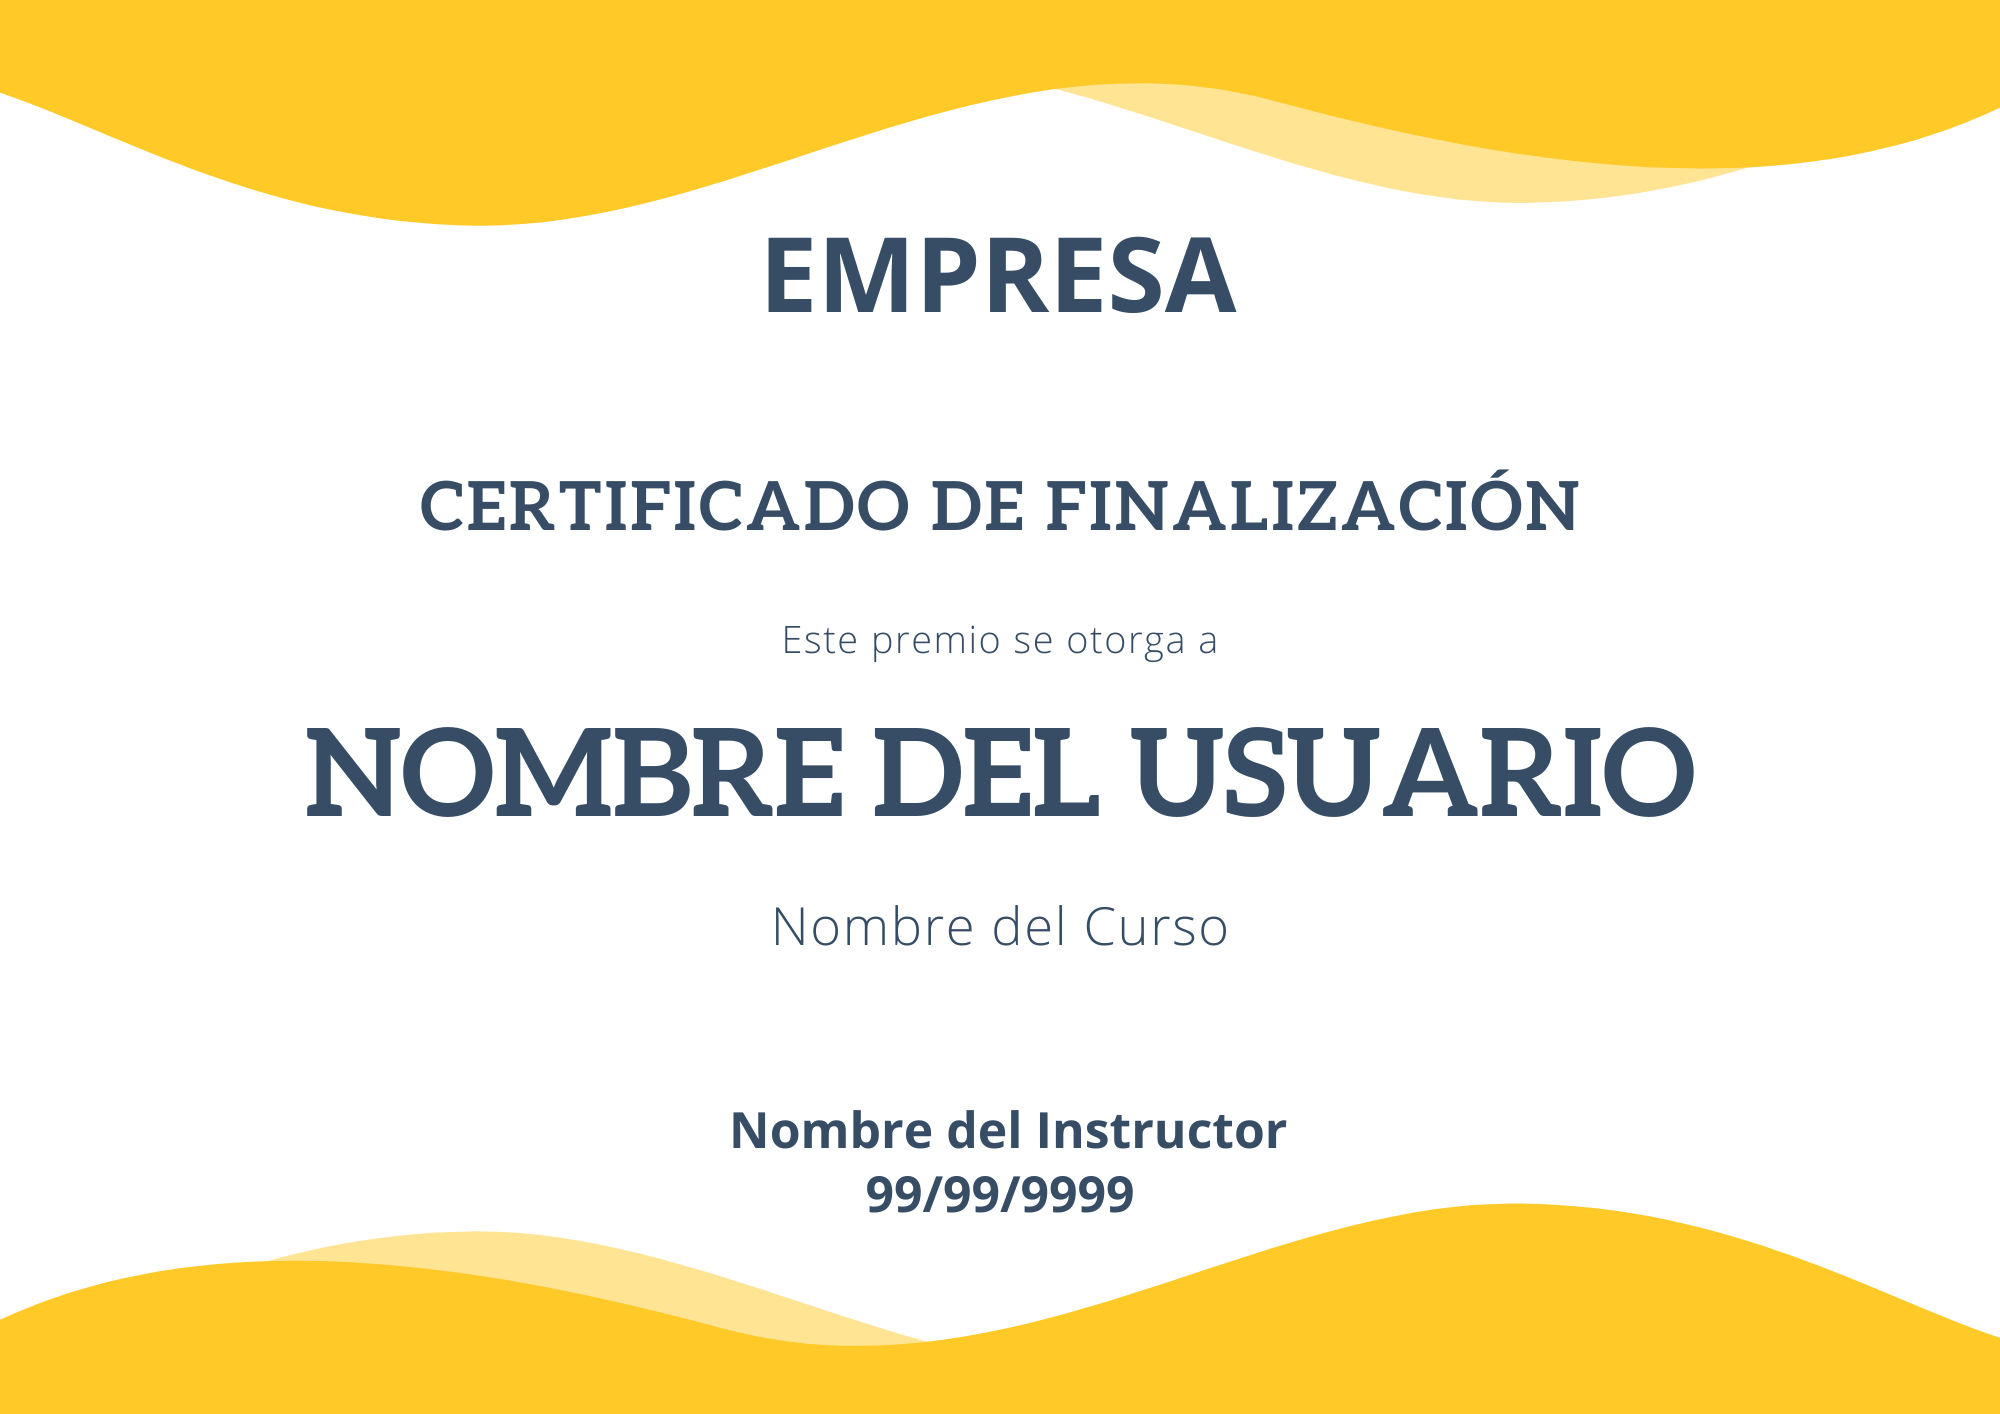
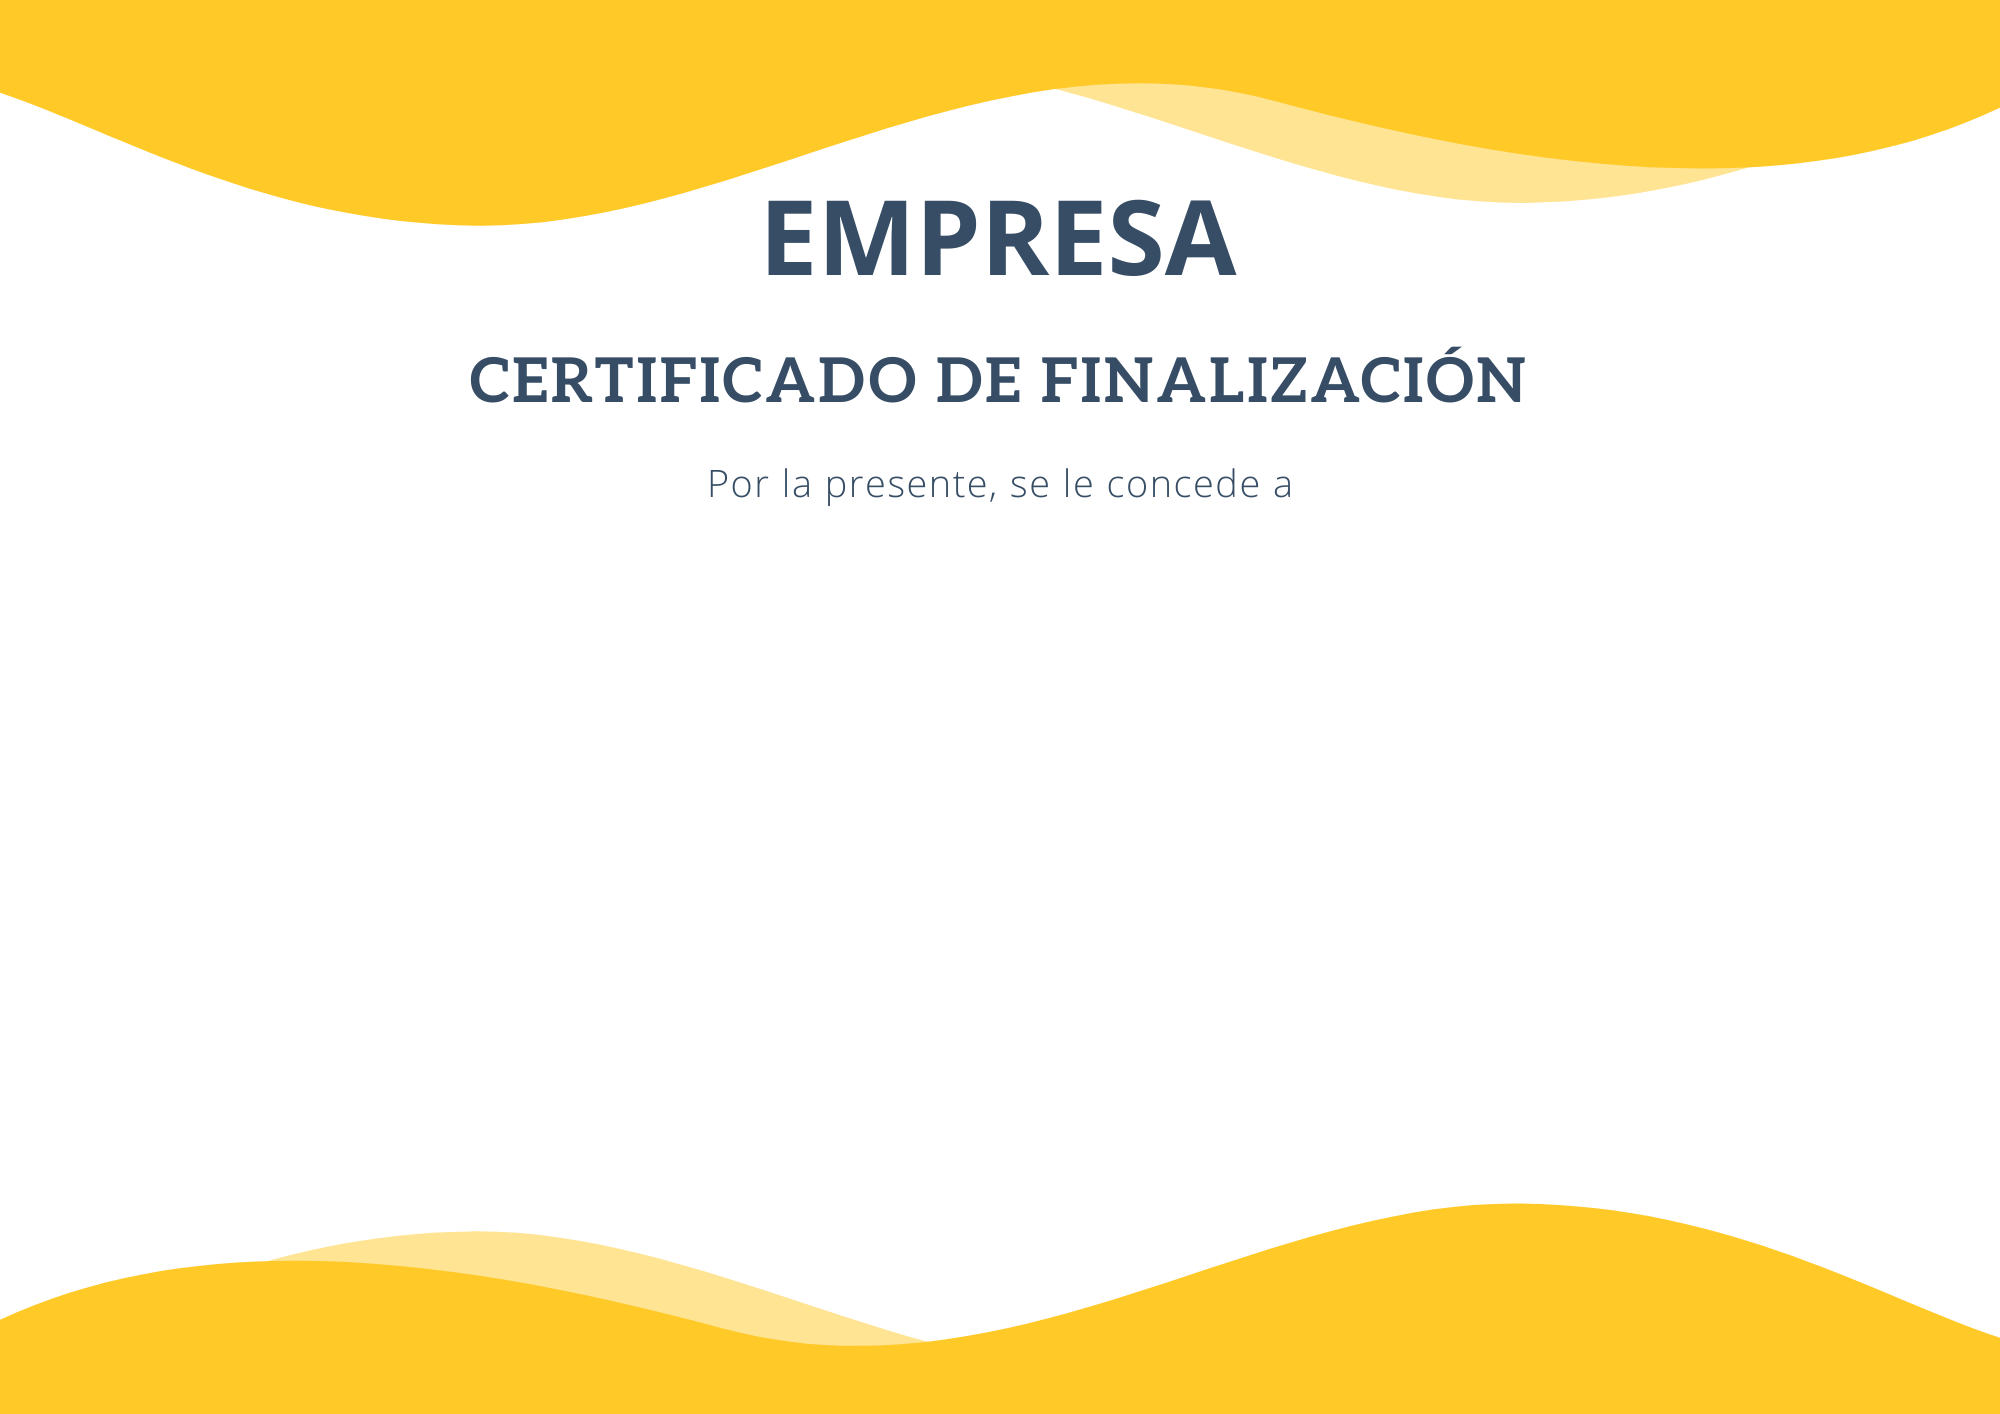
Podemos descargar nuestro certificado en formato PNG y PDF

diff --git a/view/Certificado/certificado.js b/view/Certificado/certificado.js
@@ -1,31 +1,52 @@
 const canvas = document.getElementById('canvas');
 const ctx = canvas.getContext('2d');
 
-// Inicializamos la imagen
-const image = new Image();
-// Ruta de la imagen
-image.src = '../../public/certificado.png';
-// Dimensionamos y seleccionamos imagen
-ctx.drawImage(image, 0, 0, canvas.width, canvas.height);
-// Definimos el tamanio de la fuente
-ctx.font = "45px Arial";
-
-ctx.textAlign = "center";
-ctx.textBaseline = 'middle';
-var x = canvas.width / 2;
-ctx.fillText("Nombre", x, 100);
-ctx.fillText("Nombaare", x, 230);
-
 $(document).ready(function () {
     var curd_id = getUrlParameter('curd_id');
+    // Inicializamos la imagen
+    const image = new Image();
+    // Ruta de la imagen
+    image.src = '../../public/certificado.png';
 
     $.post("../../controller/usuario.php?op=mostrar_curso_detalle", { curd_id : curd_id }, function (data) {
         data = JSON.parse(data);
         console.log(data);
         $('#cur_descrip').html(data.cur_descrip);
+
+        // Dimensionamos y seleccionamos imagen
+        ctx.drawImage(image, 0, 0, canvas.width, canvas.height);
+        // Definimos el tamanio de la fuente
+        ctx.font = "35px Arial";
+        ctx.textAlign = "center";
+        ctx.textBaseline = 'middle';
+        var x = canvas.width / 2;
+        ctx.fillText(data.usu_nom + ' ' + data.usu_apep + ' ' + data.usu_apem, x, 165);
+        ctx.font = "25px Arial";
+        ctx.fillText(data.cur_nom, x, 220);
+        ctx.font = "20px Arial";
+        ctx.fillText(data.inst_nombre + ' ' + data.inst_apep + ' ' + data.inst_apem, x, 300);
+        ctx.font = "15px Arial";
+        ctx.fillText("Instuctor", x, 260);
+        ctx.font = "15px Arial";
+        ctx.fillText("Fecha de inicio: " +data.cur_fech_ini + " / Fecha de finalización: "+data.cur_fech_fin, x, 330);
     });
 
 
+});
+
+$(document).on("click", "#btnpng", function () {
+    let lblpng = document.createElement('a');
+    lblpng.download = "Certificado.png";
+    lblpng.href = canvas.toDataURL();
+    lblpng.click();
+});
+
+$(document).on("click", "#btnpdf", function () {
+    window.jsPDF = window.jspdf.jsPDF;
+    var imgData = canvas.toDataURL('image/png');
+    var doc = new jsPDF('l', 'mm');
+    doc.addImage(imgData, 'PNG', 30, 15);
+    doc.save('Certificado.pdf');
 });
 
 // Obtenemos el parametro que se paso a traves de la URL, el cual es el id del usuario

diff --git a/view/Certificado/index.php b/view/Certificado/index.php
@@ -19,14 +19,18 @@
         </p>
 
         <div class="form-layout-footer bd pd-20 bd-t-0">
-            <button class="btn btn-outline-info"> <i class="fa fa-send mg-r-10"></i> PNG</button>
-            <button class="btn btn-outline-success"> <i class="fa fa-send mg-r-10"></i> PDF</button>
+            <button class="btn btn-outline-info" id="btnpng"> <i class="fa fa-send mg-r-10"></i> PNG</button>
+            <button class="btn btn-outline-success" id="btnpdf"> <i class="fa fa-send mg-r-10"></i> PDF</button>
         </div><!-- form-group -->
 
       </div>
     </div><!-- ht-100v -->
 
     <?php require_once("../html/MainJS.php"); ?>
+    <script src="https://cdnjs.cloudflare.com/ajax/libs/jspdf/3.0.1/jspdf.umd.min.js"></script>
+    <script src="https://unpkg.com/jspdf@latest/dist/jspdf.umd.min.js"></script>
+    <script type="module" src="https://cdnjs.cloudflare.com/ajax/libs/jspdf/2.5.1/jspdf.umd.min.js"></script>
+    <script src="https://cdnjs.cloudflare.com/ajax/libs/jspdf/2.5.1/jspdf.umd.min.js"></script>
     <script type="text/javascript" src="certificado.js"></script>
   </body>
 </html>
